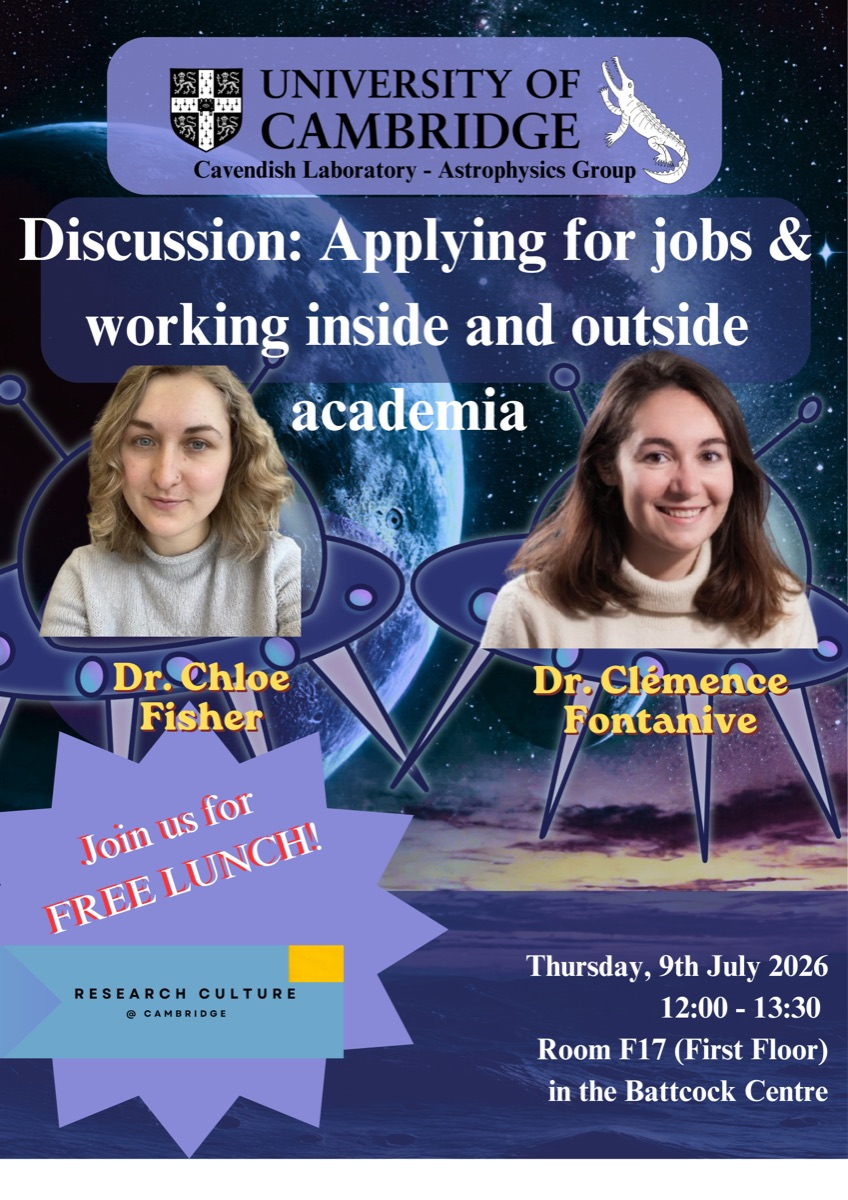
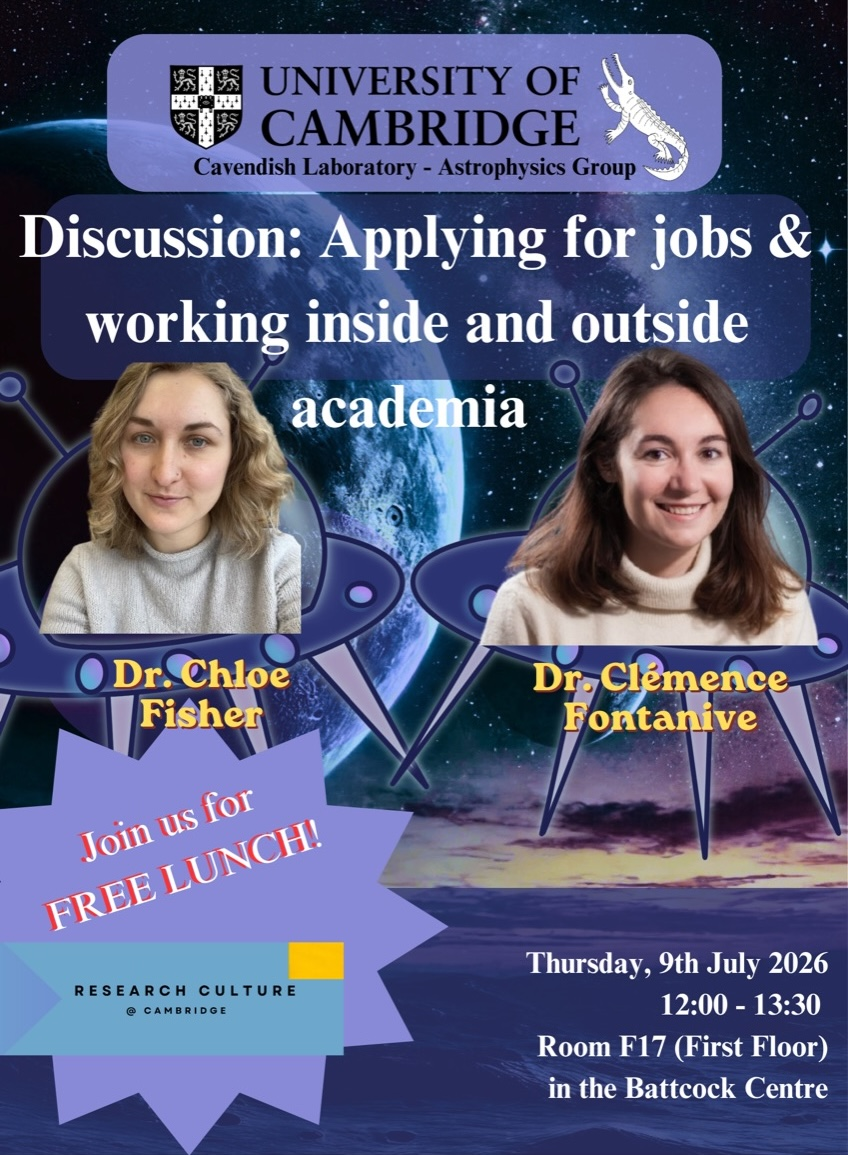
Polish AstroCareer layout and images

diff --git a/astrocareer.html b/astrocareer.html
@@ -31,11 +31,11 @@
           <br>
           For researchers in astronomy, astrophysics, and cosmology. Open to all.
         </p>
-        <a class="hero-subscribe-link" href="https://lists.cam.ac.uk/sympa/info/ucam-astro-career-talk">Subscribe to mailing list</a>
       </section>
 
       <div class="astro-page-shell section-band">
         <aside class="astro-side-nav" aria-label="AstroCareer page sections">
+          <a class="button primary side-subscribe-link" href="https://lists.cam.ac.uk/sympa/info/ucam-astro-career-talk">Subscribe to mailing list</a>
           <p class="eyebrow">On this page</p>
           <nav>
             <a href="#about">About</a>
@@ -138,7 +138,7 @@
             <div class="event-poster poster-image">
               <img src="assets/astrocareer/panel-discussion.jpg" alt="Poster for Astro Career Panel Discussion">
             </div>
-            <div>
+            <div class="panel-card-copy">
               <h3>Astro Career Panel Discussion</h3>
               <p>Diverse careers across academia, data, software, defence, space, sustainability, venture, and more.</p>
               <button class="button panel-bios-trigger" type="button" data-panel-bios-open>Panelist bios</button>
@@ -214,27 +214,43 @@
           <p class="eyebrow">Committee</p>
           <h2>Organising Committee</h2>
         </div>
-        <div class="committee-grid">
-          <article>
-            <h3>Haoyang Ye</h3>
-            <p><a href="mailto:hy297@cam.ac.uk">hy297 AT cam.ac.uk</a></p>
-          </article>
-          <article>
-            <h3>Matthew Hooton</h3>
-            <p><a href="mailto:mh2143@cam.ac.uk">mh2143 AT cam.ac.uk</a></p>
-          </article>
-          <article>
-            <h3>Charlotte Simmonds</h3>
-            <p>Past committee member, 2024-2025</p>
-          </article>
-          <article>
-            <h3>Amanda Stoffers</h3>
-            <p>Past committee member, 2024-2025</p>
-          </article>
-          <article>
-            <h3>Sireesha Chamarthi</h3>
-            <p>Past committee member, 2025</p>
-          </article>
+        <div class="table-wrap committee-table-wrap">
+          <table class="committee-table">
+            <thead>
+              <tr>
+                <th>Name</th>
+                <th>Contact</th>
+                <th>Role</th>
+              </tr>
+            </thead>
+            <tbody>
+              <tr>
+                <td>Haoyang Ye</td>
+                <td><a href="mailto:hy297@cam.ac.uk">hy297 AT cam.ac.uk</a></td>
+                <td>Organising committee</td>
+              </tr>
+              <tr>
+                <td>Matthew Hooton</td>
+                <td><a href="mailto:mh2143@cam.ac.uk">mh2143 AT cam.ac.uk</a></td>
+                <td>Organising committee</td>
+              </tr>
+              <tr>
+                <td>Charlotte Simmonds</td>
+                <td></td>
+                <td>Past committee member, 2024-2025</td>
+              </tr>
+              <tr>
+                <td>Amanda Stoffers</td>
+                <td></td>
+                <td>Past committee member, 2024-2025</td>
+              </tr>
+              <tr>
+                <td>Sireesha Chamarthi</td>
+                <td></td>
+                <td>Past committee member, 2025</td>
+              </tr>
+            </tbody>
+          </table>
         </div>
       </section>
 
@@ -264,7 +280,7 @@
     </main>
 
     <footer class="site-footer">
-      <p>Monthly Astro Career Talk Series · Source migrated from Notion</p>
+      <p>Monthly Astro Career Talk Series</p>
       <a href="#top">Back to top</a>
     </footer>
     <dialog class="panel-bios-dialog" id="panel-bios-dialog" aria-labelledby="panel-bios-title">

diff --git a/styles.css b/styles.css
@@ -231,15 +231,6 @@ a {
   max-width: 760px;
 }
 
-.hero-subscribe-link {
-  border-bottom: 3px solid var(--tomato);
-  display: inline-flex;
-  font-weight: 800;
-  margin-top: 16px;
-  padding-bottom: 4px;
-  text-decoration: none;
-}
-
 .eyebrow {
   font-size: 0.84rem;
   font-weight: 800;
@@ -465,6 +456,11 @@ h3 {
   grid-template-columns: minmax(0, 0.84fr) minmax(360px, 1fr);
   padding: 30px 0;
   position: relative;
+}
+
+.side-subscribe-link {
+  margin-bottom: 18px;
+  width: 100%;
 }
 
 .astro-about::before {
@@ -858,11 +854,25 @@ th {
 }
 
 .career-event-card.wide {
-  align-items: stretch;
-  column-gap: 32px;
   grid-column: span 2;
-  grid-template-columns: minmax(220px, 0.52fr) minmax(0, 1fr);
+  grid-template-columns: 1fr;
   padding: 18px;
+}
+
+.career-event-card.wide .event-poster.poster-image {
+  aspect-ratio: 16 / 9;
+  max-height: 520px;
+}
+
+.career-event-card.wide .event-poster img {
+  object-position: center center;
+  transform: scale(1.02);
+}
+
+.panel-card-copy {
+  background: var(--panel);
+  position: relative;
+  z-index: 2;
 }
 
 .career-event-card h3 {
@@ -957,12 +967,26 @@ th {
   display: block;
   height: 100%;
   object-fit: cover;
-  transform: scale(1.025);
+  object-position: center 48%;
+  transform: scale(1.075);
   width: 100%;
 }
 
 .career-event-card.wide .event-poster {
-  min-height: 230px;
+  min-height: 0;
+}
+
+.committee-table-wrap {
+  box-shadow: none;
+}
+
+.committee-table {
+  width: 100%;
+}
+
+.committee-table th,
+.committee-table td {
+  vertical-align: middle;
 }
 
 .event-poster::before,
